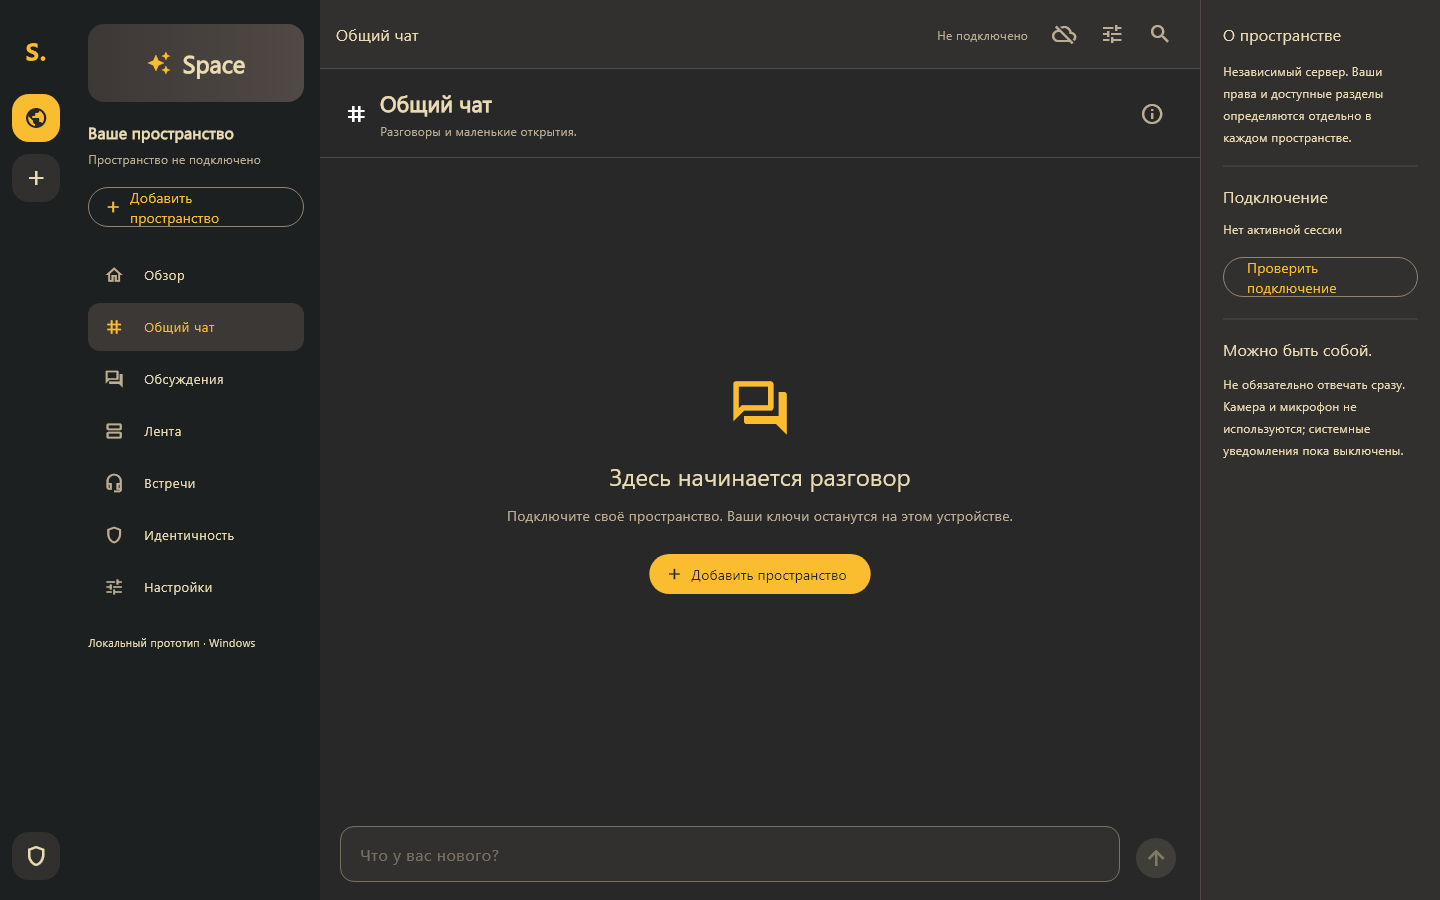
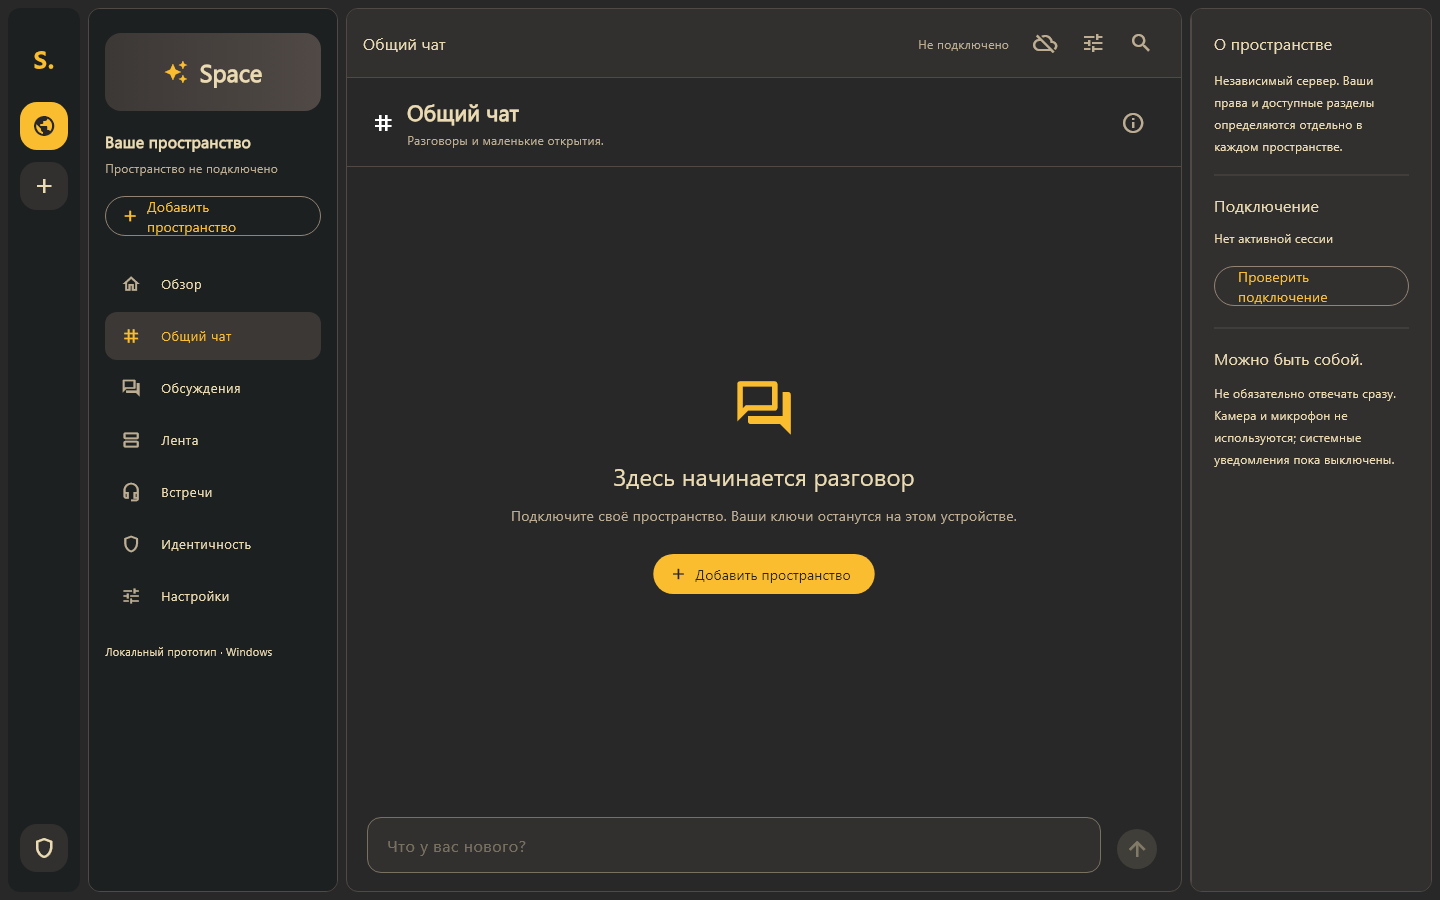
ui: use 12px rounded regions in Flutter and HTML shells

diff --git a/client/lib/ui/shell.dart b/client/lib/ui/shell.dart
@@ -10,6 +10,7 @@ import 'chat_view.dart';
 import 'connection_panel.dart';
 import 'panels.dart';
 import 'search.dart';
+import 'components.dart';
 
 enum Section {
   overview('Обзор', Icons.home_outlined),
@@ -506,13 +507,27 @@ class _SpaceShellState extends State<SpaceShell> {
                     )
                   : null,
               body: SafeArea(
-                child: Row(
-                  crossAxisAlignment: CrossAxisAlignment.stretch,
-                  children: [
-                    if (!compact) ...[rail(), sidebar()],
-                    Expanded(child: workspace),
-                    if (box.maxWidth >= 1320) contextPanel(),
-                  ],
+                child: Padding(
+                  padding: EdgeInsets.all(compact ? 6 : 8),
+                  child: Row(
+                    crossAxisAlignment: CrossAxisAlignment.stretch,
+                    children: [
+                      if (!compact) ...[
+                        ClipRRect(
+                          borderRadius: BorderRadius.circular(areaRadius),
+                          child: rail(),
+                        ),
+                        const SizedBox(width: 8),
+                        RegionFrame(child: sidebar()),
+                        const SizedBox(width: 8),
+                      ],
+                      Expanded(child: RegionFrame(child: workspace)),
+                      if (box.maxWidth >= 1320) ...[
+                        const SizedBox(width: 8),
+                        RegionFrame(child: contextPanel()),
+                      ],
+                    ],
+                  ),
                 ),
               ),
             ),

diff --git a/client/lib/ui/components.dart b/client/lib/ui/components.dart
@@ -1,5 +1,26 @@
 import 'package:flutter/material.dart';
 
+const areaRadius = 12.0;
+
+class RegionFrame extends StatelessWidget {
+  const RegionFrame({super.key, required this.child});
+  final Widget child;
+  @override
+  Widget build(BuildContext context) => DecoratedBox(
+    decoration: BoxDecoration(
+      borderRadius: BorderRadius.circular(areaRadius),
+      border: Border.all(color: Theme.of(context).colorScheme.outlineVariant),
+    ),
+    child: Padding(
+      padding: const EdgeInsets.all(1),
+      child: ClipRRect(
+        borderRadius: BorderRadius.circular(areaRadius - 1),
+        child: child,
+      ),
+    ),
+  );
+}
+
 class SurfaceCard extends StatelessWidget {
   const SurfaceCard({
     super.key,
@@ -12,7 +33,7 @@ class SurfaceCard extends StatelessWidget {
   Widget build(BuildContext context) => Material(
     color: Theme.of(context).colorScheme.surface,
     shape: RoundedRectangleBorder(
-      borderRadius: BorderRadius.circular(22),
+      borderRadius: BorderRadius.circular(areaRadius),
       side: BorderSide(color: Theme.of(context).colorScheme.outlineVariant),
     ),
     child: Padding(padding: padding, child: child),

diff --git a/client/design/prototype/styles.css b/client/design/prototype/styles.css
@@ -2134,3 +2134,6 @@ svg {
 .dark .feed-art:after {
   border-color: #d7992140;
 }
+
+/* Единый радиус областей оболочки. */
+.app{padding:8px;gap:8px}.space-rail,.space-sidebar,.workspace,.context-panel{border-radius:12px;overflow:hidden}.space-sidebar,.context-panel{overflow-y:auto}.workspace{border:1px solid var(--line)}.context-panel{margin:8px;border:1px solid var(--line)}.card,.feed-card,.topic,.media-scene,.participant-tile{border-radius:12px}@media(max-width:760px){.app{padding:6px;gap:0}.workspace{border-radius:12px}.modal-nav .space-sidebar{overflow-y:auto}}

diff --git a/client/design/README.md b/client/design/README.md
@@ -100,7 +100,7 @@ node client/design/prototype/serve.mjs
 | Дополнительные акценты | Глина, шалфей, песочный, мягкий ирис |
 | Текст | Manrope с Cyrillic; системный Segoe UI как fallback |
 | Шкала отступов | 4, 8, 12, 16, 24, 32 |
-| Скругления | 10–12 для controls, 16–24 для containers |
+| Скругления | 12 для основных областей и карточек; между desktop-областями 8 px |
 | Иконки | Собственные простые SVG, единый stroke |
 | Анимация | Короткие 150–250 ms переходы и обратная связь |
 | Основные targets | 44–48 px; реакции компактнее с достаточным интервалом |
